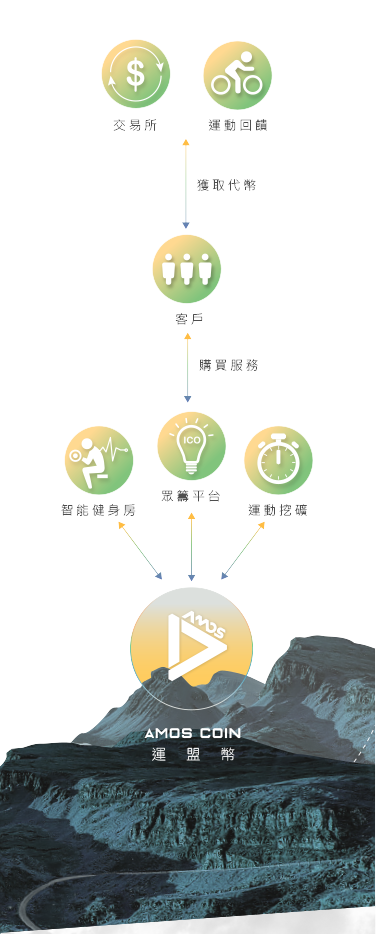
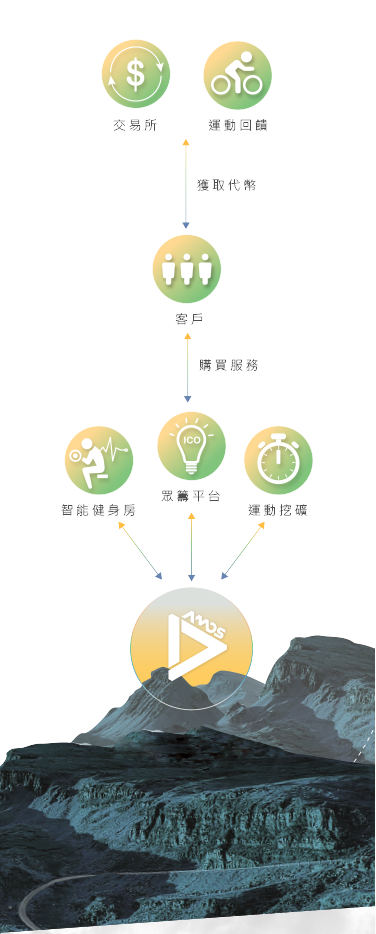
delete sub-title

Changed region(s): [[0.3218, 0.7762, 0.6729, 0.8383], [0.7021, 0.7762, 0.7314, 0.8073]]

diff --git a/index.html b/index.html
@@ -65,8 +65,6 @@
         <div class="logo-block d-flex justify-content-center">
             <div class="middle-block">
                 <img id="main-logo" class="drop-shadow" src="img/block01_amoslogo_demo.png" alt="">
-                
-                <h2 class="text-shadow letter-spacing-ch fix"><img class="drop-shadow" src="img/block01_amoscoin.png" alt="">運盟幣</h2>
                 <h2 class="letter-spacing-en">A New Future is Rising</h2>
                 <h6 class="">不會消失的未來產業</h6>
                 <div class="inner-time">
@@ -270,9 +268,9 @@
                         <p>認購權重</p>
                         <p>本次眾籌預計售出 40% 整體 2,000,000,000 枚 ( 20億枚) ，並分為兩個階段。</p>
                         <ul>
-                            <li>預先販售階段<br class="phone-img" />(2018/09/30 ~ 2018/10/15)：<br />
+                            <li>預先販售階段<br class="phone-img" />(2018/10/31 ~ 2018/11/13)：<br />
                                 販售上限總量為500,000,000枚( 5億枚)，認購比例為：1 Ethereum = 25000 AMOS。</li>
-                            <li>公開販售階段<br class="phone-img" />(2018/10/16 ~ 2018/11/30)：<br />
+                            <li>公開販售階段<br class="phone-img" />(2018/11/13 ~ 2018/12/12)：<br />
                                 販售上限總量為1,500,000,000枚( 15億枚)，認購比例為：1 Ethereum = 20000 AMOS。</li>
                         </ul>
                         <p>我們將在眾籌結束後 30 天內核算兌換比例，並發放AMOS代幣給眾籌參與者。並陸續在各交易所上市。</p>
@@ -303,7 +301,7 @@
                 </div>
             </div>
         </div>
-        <div class="time-line block">
+        <!-- <div class="time-line block">
             <h2 class="letter-spacing-en">Time line</h2>
             <h2 class="ltsp-05">發展路線</h2>
             <div class="d-flex">
@@ -348,7 +346,7 @@
                 <img class="phone-img" src="img/block08_mountain01_phone.png" alt="">
                 <img class="phone-img" src="img/block08_mountain01_phone.png" alt="">
             </div>
-        </div>
+        </div> -->
         <div class="team block">
             <h2 class="letter-spacing-en">Team</h2>
             <h2 class="ltsp-05">團隊</h2>
@@ -825,11 +823,11 @@
                     </div>
                 </div>
                 <div class="col-lg-5 col-10 icons">
-                    <a href="#"><img src="img/footer_icon02.png" alt=""></a>
-                    <a href="#"><img src="img/footer_icon03.png" alt=""></a>
+                    <a href=" https://www.facebook.com/Amos運盟幣-875584599311941/?modal=admin_todo_tour"><img src="img/footer_icon02.png" alt=""></a>
+                    <a href="https://twitter.com/AMOS03027698"><img src="img/footer_icon03.png" alt=""></a>
                     <a href="#"><img src="img/footer_icon04.png" alt=""></a>
                     <a href="#"><img src="img/footer_icon05.png" alt=""></a>
-                    <a href="#"><img src="img/footer_icon06.png" alt=""></a>
+                    <a href="https://t.me/amosglobal"><img src="img/footer_icon06.png" alt=""></a>
                     <a href="#"><img src="img/footer_icon07.png" alt=""></a>
                     <a href="#"><img src="img/footer_icon01.png" alt=""></a>
                 </div>
